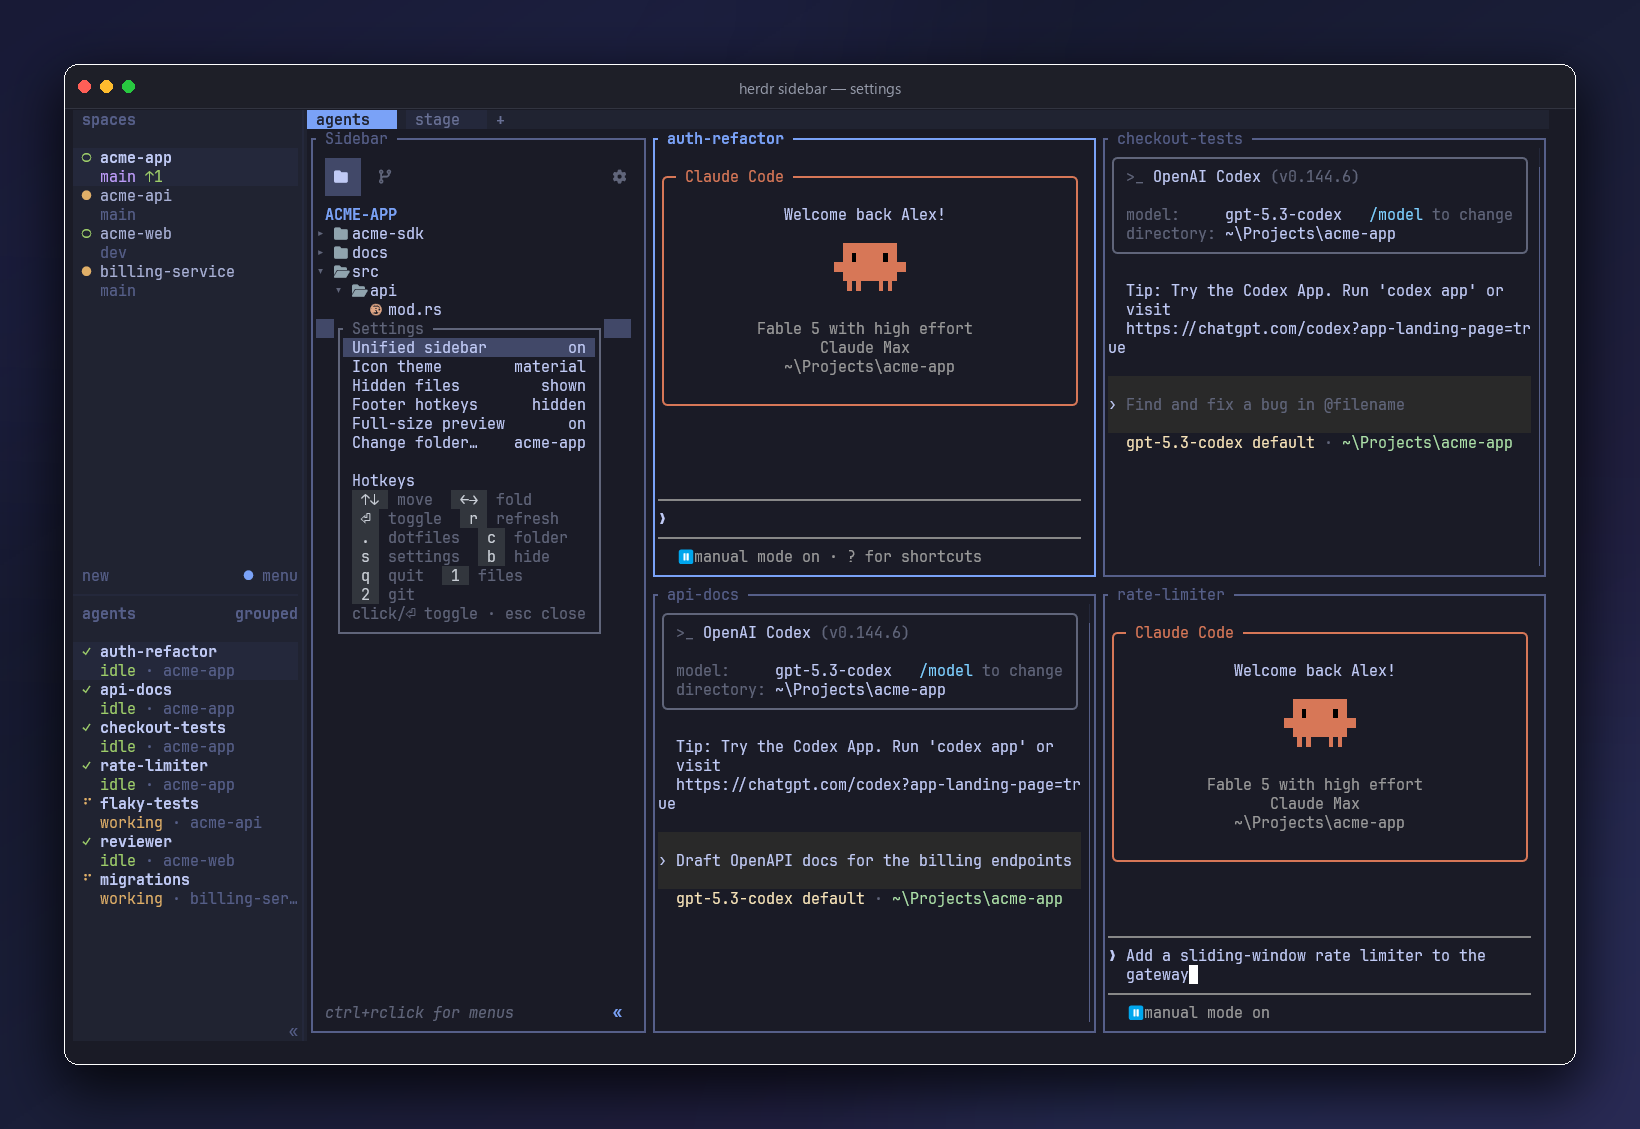
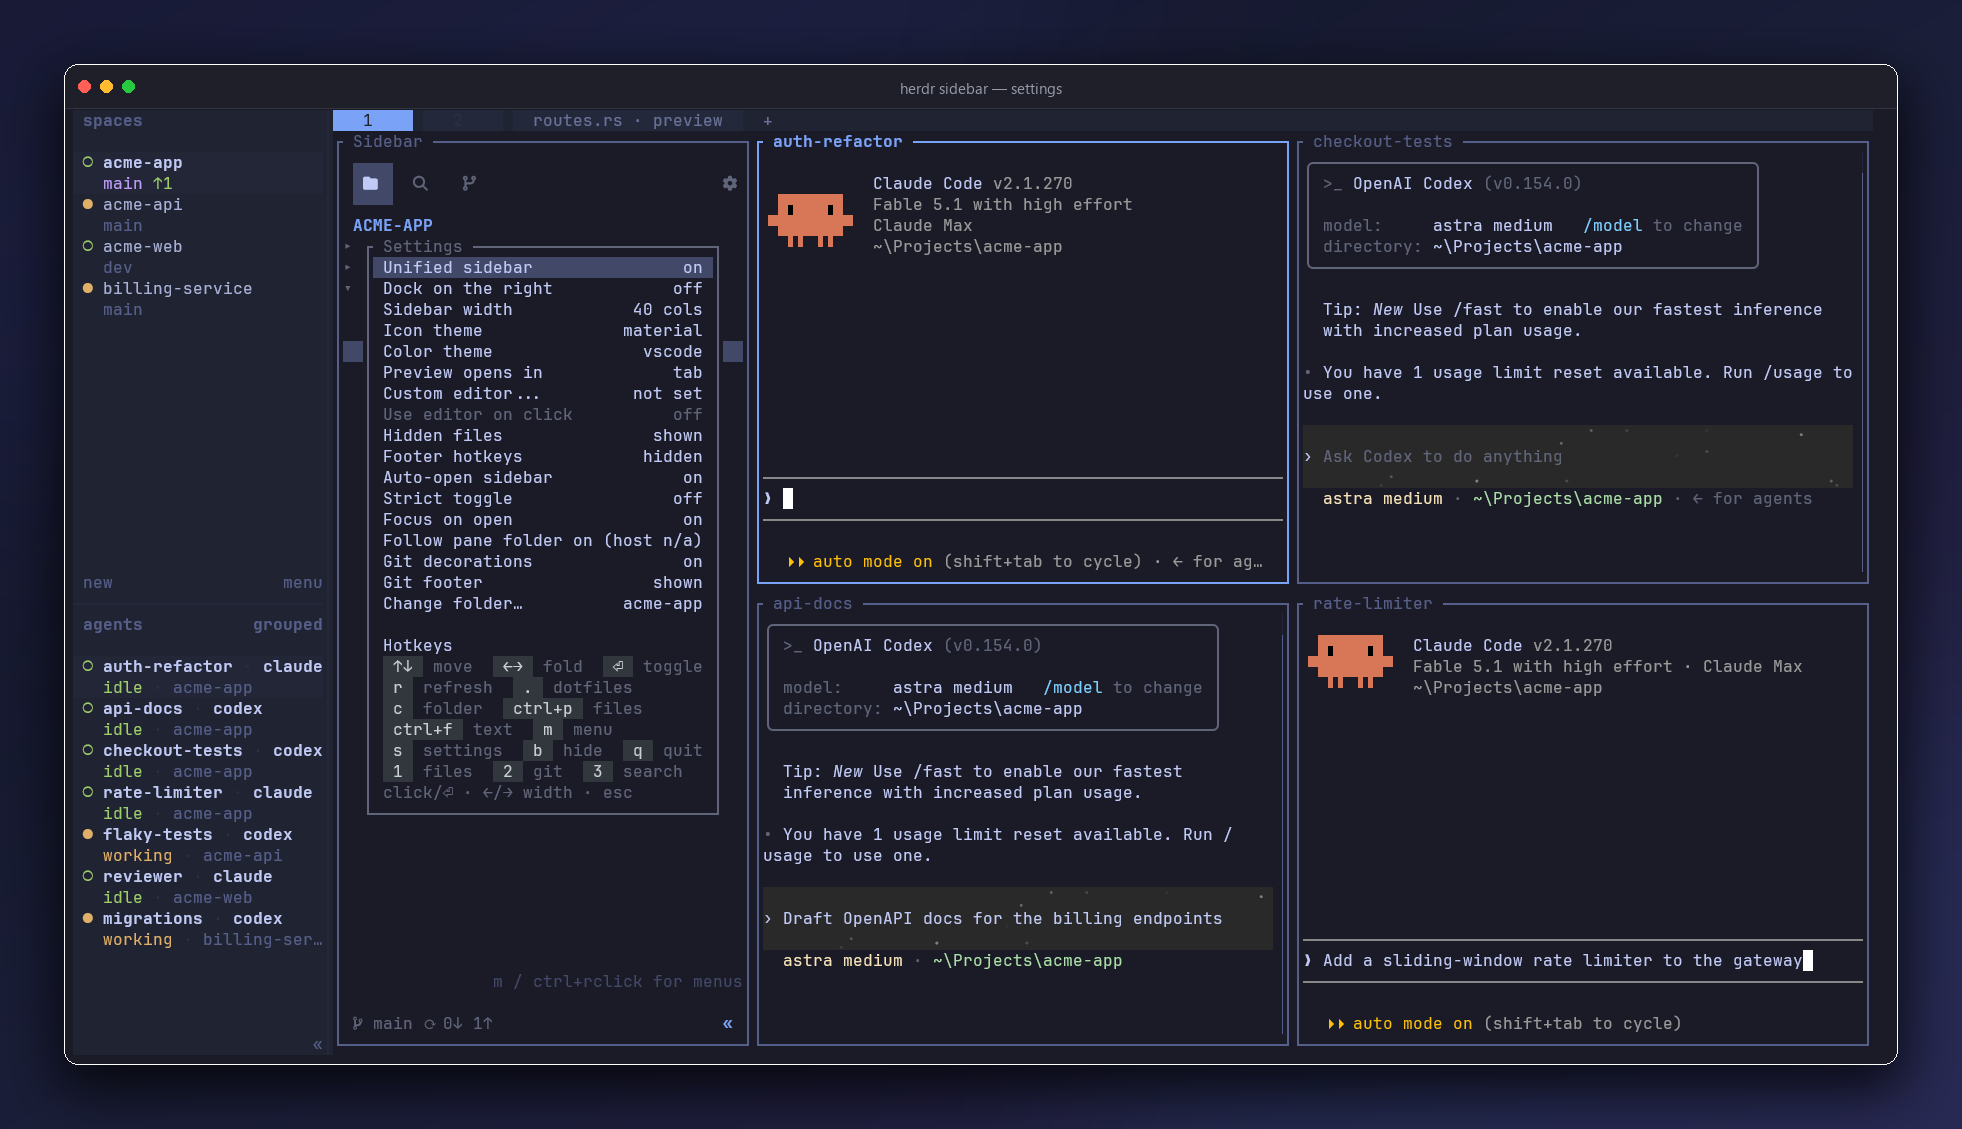
docs: refresh sidebar README screenshots
Reshoot hero, preview, settings, source-control, and separated on the
current build with a narrower (~39-col) sidebar. source-control and
separated now show the fixed Commit button (no dropdown chevron) and the
aligned message-box border; the separated shot gives Source Control a
slightly wider pane so its input border reads cleanly. Capture the
reshoot findings in CLAUDE.md.

Claude-Session: https://claude.ai/code/session_01VST6S4sLtbPjABXHY71C9b

diff --git a/CLAUDE.md b/CLAUDE.md
@@ -557,7 +557,20 @@ HACKING.md — budget time for that before promising a patched build.
   selecting a match sends a line-bearing file request through the existing preview client.
   Search is a persistent first-class activity view, not a popup: it updates after a 300 ms typing
   debounce and exposes VS Code-style match-case, whole-word, and regex toggles. `1`, `2`, and `3`
-  select Explorer, Source Control, and Search. The overflow control reveals include/exclude glob
+  select Explorer, Search, and Source Control — the SAME left-to-right order as the activity bar
+  and VS Code (Search is `2`, Source Control is `3`). Switching INTO Search does NOT focus the
+  search box (`open_content_search(false)` → `SearchFocus::Results`): the box stays unfocused so
+  bare `1`/`2`/`3` keep switching views, and a literal digit is still searchable once you focus the
+  box. `Ctrl+F` is the "find" gesture that opens/focuses the box ready to type
+  (`open_content_search(true)`); `Tab` or a click focus it too. The focus intent crosses the
+  cross-view `Exit::Search { focus_query }` boundary (SCM `Ctrl+F` focuses, SCM `2`/`Ctrl+2`/click
+  don't; a resumed search restores unfocused). Once a text field IS focused (a search field or the
+  SCM commit box) it captures bare digits, so the switch also answers to `Ctrl+1` / `Ctrl+2` /
+  `Ctrl+3` from ANY focus in both apps — handled at the top of each `on_key` before the
+  overlay/focus dispatch, the keyboard way out of a focused search/commit field. A modal opened
+  from Search (branch picker via a footer click, or ⚙ Settings) is parked over the search overlay
+  (`suspended_search`) and restored with its query on close, instead of dropping back to the tree.
+  The overflow control reveals include/exclude glob
   filters. Unfocused empty inputs render dim placeholders without mutating input state; focusing an
   empty input hides its placeholder and puts the block caret in the first cell. The Replace field is
   always visible without a disclosure chevron, and remains deliberately inert until replacement can
@@ -939,6 +952,86 @@ The framed screenshots in `plugins/herdr-sidebar/docs/media/` are produced with 
 scripts in `tools/screenshots/` (capture → crop → frame). Full reshoot procedure, verified
 end-to-end twice:
 
+**2026-09 reshoot findings (herdr 0.9) — read before reshooting:**
+- **The elevated spaces/agents rail comes from config.** Set
+  `[theme.custom] sidebar_bg = "#202331"` in `config.toml` (native since herdr 0.8.2;
+  `panel_bg` colors herdr's tab/status chrome, `sidebar_bg` the desktop rail). It is
+  CLIENT-rendered (`client/shell/render.rs`), so the client reads it at ATTACH — after a
+  config edit just relaunch the WT client, NO server restart needed.
+- **Window width: capture at 1848×1011** (tab area ~167×48); crop is
+  `crop.ps1 <raw> <out> 8 48 1832 955`. (SUPERSEDED by 2026-09-13: the sidebar now targets
+  ~39 cols via a per-tab split ratio ≈0.25, NOT the 48-col state field — see below.)
+- **Claude agent panes must be in AUTO mode** for the hero: after `pane run <p> claude`, send
+  `pane send-keys <p> shift+tab` until the footer reads `auto mode on` (fresh claude starts on
+  "manual mode on").
+- **Capture by HWND, not title.** herdr overrides the WT `--title`, so the shoot window shows
+  `DESKTOP-…: acme-app` and COLLIDES with the real window's title. Grab the shoot window's HWND
+  (foreground right after a fresh `wt` launch, or enumerate `CASCADIA_HOSTING_WINDOW_CLASS` and
+  pick the `acme-app` one that is not the real session), then `PrintWindow` it with
+  PW_RENDERFULLCONTENT (flag 2) — works even backgrounded/occluded, unlike screen-copy. WT
+  reuses one process, so a fresh window's env/foreground is unreliable; dead clients revert to
+  the literal `herdr-shoot` title once the server stops.
+- **Server binary:** the real server runs `%LOCALAPPDATA%\Programs\Herdr\bin\herdr.exe`; `herdr`
+  on PATH is the standalone `.herdr\packages\...\0.9.0` copy (same file via junction). Either
+  serves the shoot session; the theme comes from config, not the binary.
+
+**2026-09-13 reshoot findings — read these, they save an hour:**
+- **WT is ONE process shared by every window, INCLUDING the terminal Claude Code runs in.**
+  `SetWindowPos`/`MoveWindow` resizes, `PrintWindow` grabs, and repeated `wt -w new` launches
+  block WT's UI thread and **freeze the user's own terminal** (they have to restart it, which
+  kills the shoot window mid-capture → `bad rect 0x0`). Mitigate: launch the shoot client ONCE,
+  resize ONCE, then capture every tab in that single session (see `batch_shots.py` below); never
+  re-resize per shot; warn the user their terminal may blink/freeze for the ~2 min it runs.
+- **The shoot named pipe's NAME is the full socket path.** The pipe is
+  `\\.\pipe\C:\Users\Alex\AppData\Roaming\herdr\sessions\shoot\herdr.sock` — pass
+  `herdr_rpc.py` the socket PATH (from `herdr session list` `socket_path`), NOT the file's
+  contents (that "44684:…" string is a stale marker and fails). Python on this box has no
+  `socket.AF_UNIX`; open the named pipe as a file instead (herdr_rpc.py already does).
+- **Set pane widths with `layout.set_split_ratio` over RPC, NOT `pane resize`.** `pane resize
+  --amount` is a ratio delta on the *nearest* split and mangles the nested 2×2 grid (it re-nests
+  the sidebar into a sub-split). `layout.set_split_ratio {tab_id, path:[bool], ratio}` sets ONE
+  split absolutely. **path bools: `false`=first child, `true`=second child; `[]`=root split.**
+  The response echoes the whole tree — read it to learn the structure before setting ratios.
+- **Preferred sidebar width is ~39 cols = root-split ratio ≈0.25** at 1848×1011 (154-col tab
+  area); the old 48 cols read too wide (user-corrected). For the HERO's `[[sidebar|col1]|col2]`
+  tree, a clean 2×2 with a 39-col sidebar is root `0.623`, `[false]` `0.406`, rows `0.5`.
+- **A preview tab's auto-docked sidebar IGNORES `sidebar_width`** (it docks wide) — set its
+  width via `layout.set_split_ratio` on that tab, not the state field.
+- **Kill claude's "✘ Auto-update failed · Run claude doctor" banner** by relaunching the agent
+  with `$env:DISABLE_AUTOUPDATER=1; $env:CLAUDE_CODE_DISABLE_NONESSENTIAL_TRAFFIC=1; claude
+  --model fable --permission-mode auto`. `--permission-mode auto` gives auto mode without the
+  shift+tab dance. Exit the old claude first (Ctrl+C ×2, or `/exit`).
+- **`report-agent --state` only accepts `idle|working|blocked|unknown`** — the old shots' blue
+  "done" came from live claude at capture time and is NOT reproducible via the socket. `pane.list`
+  does not echo the reported `agent_state`, but the rail renders it — verify in the capture.
+- **Separated view (`SC | Explorer | diff`): give the Source Control pane MORE width (~44 cols)**
+  than the others so the commit message box's right border stays aligned (user-reported). Build
+  it by toggling unified off (`s` then Enter on the first Settings row → spawns Explorer+SC),
+  `pane swap` SC into the left slot, set `preview_placement:"pane"` in state.json so `o` opens
+  the diff INLINE in the same tab (avoids the cross-tab pane-move dance), then `pane swap` so the
+  order reads SC | Explorer | diff and set the two splits' ratios.
+- **`frame_all.py` writes straight into `docs/media`, which fails with OSError 22 if a PNG is
+  locked** (File Explorer / an open viewer). Frame into a temp dir then `cp -f` over the media
+  files (the lock only blocks the open/truncate, not the overwrite of a closed handle).
+- **Global `state.json` is SHARED with the user's real session.** The shoot mutates
+  `sidebar_width`, `active`, `merged`, `preview_placement`, `search_active` — ALWAYS restore them
+  after (`merged=true`, `preview_placement="tab"`, `sidebar_width=48`, `active="explorer"`,
+  `search_active=false`) or the user's live sidebar changes under them.
+- **The hero grid's live claude/codex agents persist across the headless server** between
+  sessions — reuse them (don't respawn) if their banners/composer text are still correct.
+- **Deterministic capture pipeline** (one-off scratch scripts, NOT committed — the home path
+  would leak into this public repo; recreate from these steps): ctypes
+  `EnumWindows` → pick `CASCADIA_HOSTING_WINDOW_CLASS` whose title contains `acme-app` AND whose
+  rect is >200×200 (skip 0×0 ghosts of a dying window), relaunch via `attach_shoot.ps1` if none;
+  `SetWindowPos` to 1848×1011; `herdr tab focus`; optional hover motion via RPC
+  `pane.send_input {text:"\u001b[<35;20;30M"}` into the tab's Sidebar pane at an EMPTY row (row
+  30, not a file row — else it hover-highlights a tree row); `PrintWindow(hwnd, hdc, 2)` +
+  `GetDIBits` (BGRX) → PIL; crop `(8,48,8+1832,48+955)`. One command per shot, no PowerShell
+  Win32 hand-driving.
+- **Number-key nav changed:** in the shoot how-to the SCM shot used to be `2`; Source Control is
+  now `3` (Search is `2`). Switching a fresh sidebar to a view: send the digit key, or set
+  `active` in state.json before docking.
+
 0. **Shared backdrop (shoot session)** — shots are taken in the isolated
    `herdr --session shoot` server so herdr's left chrome shows a DUMMY roster, kept
    IDENTICAL to the herdr-aa-notes repo's shots (mirrored in that repo's CLAUDE.md):
@@ -980,7 +1073,8 @@ end-to-end twice:
    and crops; `--no-motion` for modal shots. ALWAYS `tab focus` the target tab first —
    staging the other tab leaves focus there and you capture the wrong tab):
    *preview* — explorer view, expand src/api (`Down Down Enter`, `Down Enter`), select
-   routes.rs, Enter opens the preview pane. *scm* — `2`, Down×4 to routes.rs, `o` opens
+   routes.rs, Enter opens the preview pane. *scm* — `3` (Source Control; `2` is now Search),
+   Down×4 to routes.rs, `o` opens
    the diff. *separated* — `s`, Enter toggles unified off (capture, then toggle back).
    *hero* — explorer view, Esc closes the preview, split a 2×2 agent grid to the right
    (0.25 sidebar split, then 0.5, then two down-splits), `claude` + `codex --model gpt-5.5`
